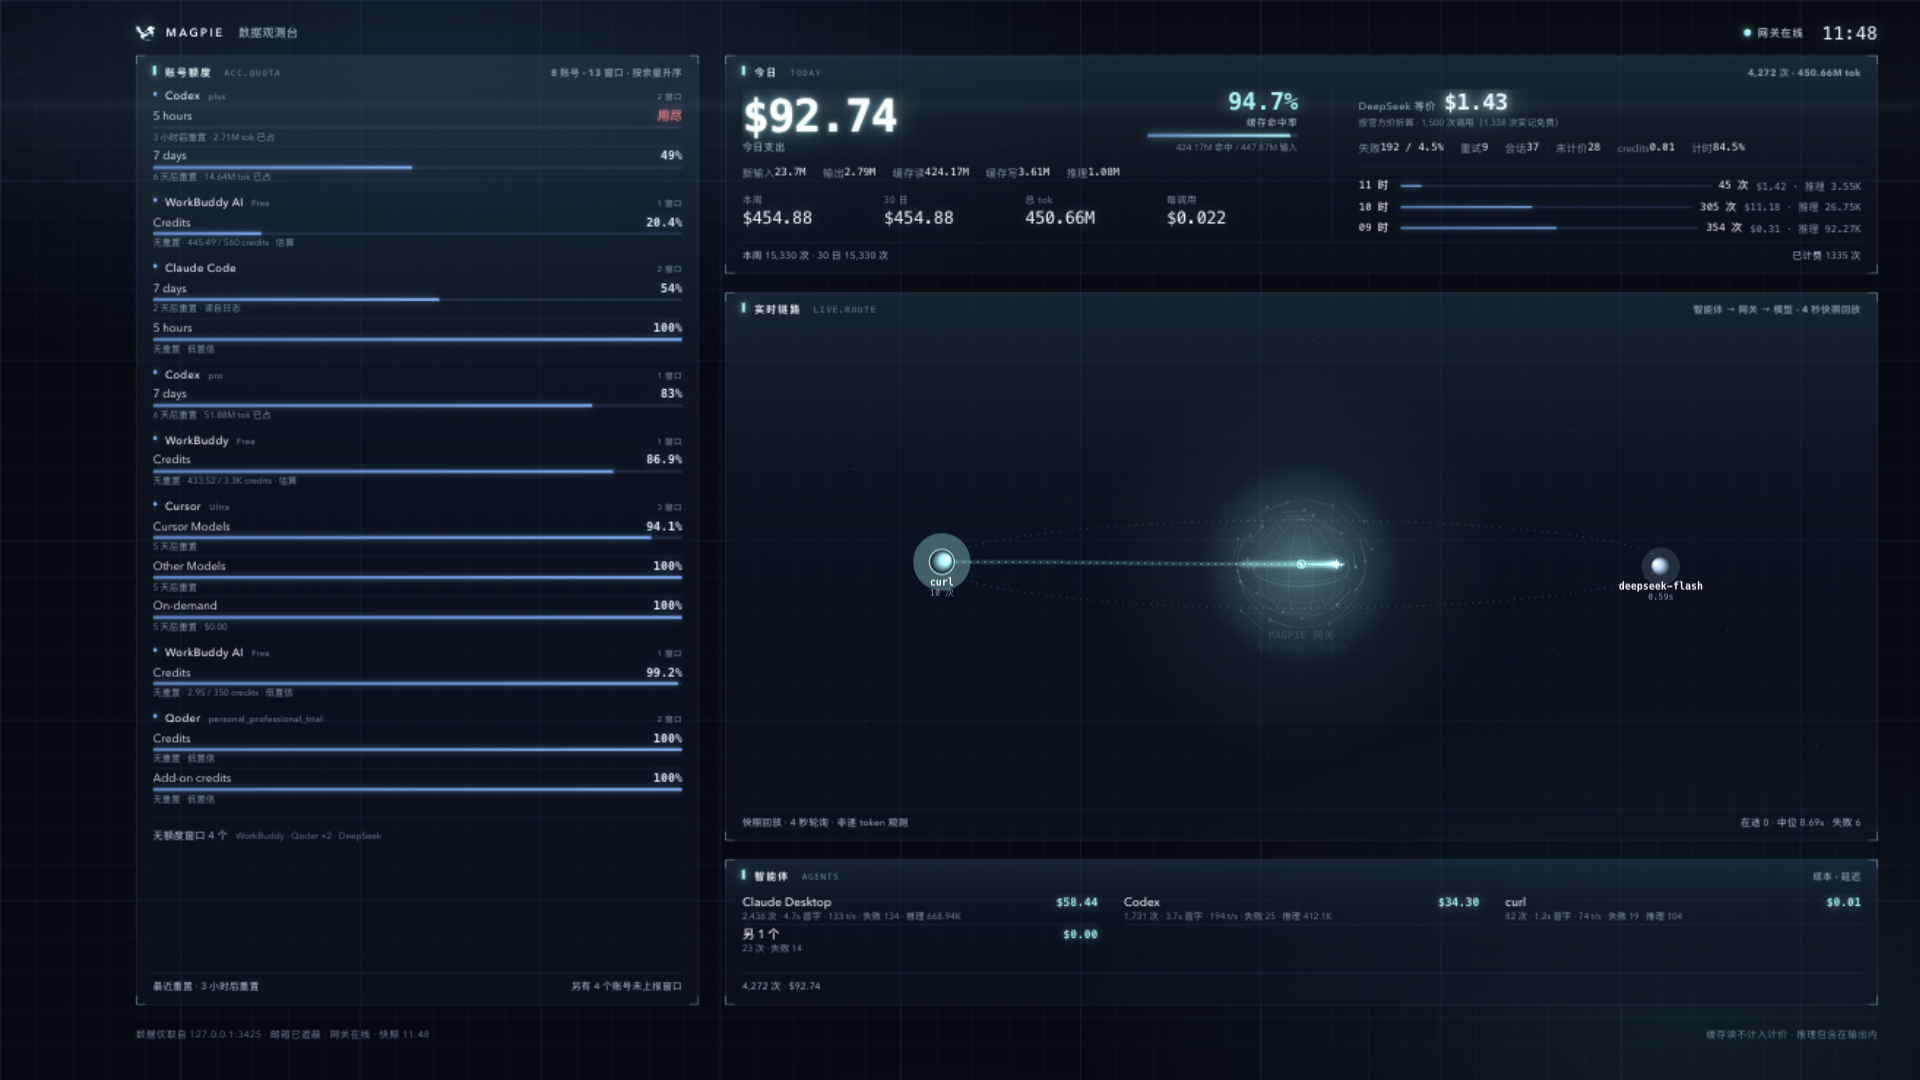
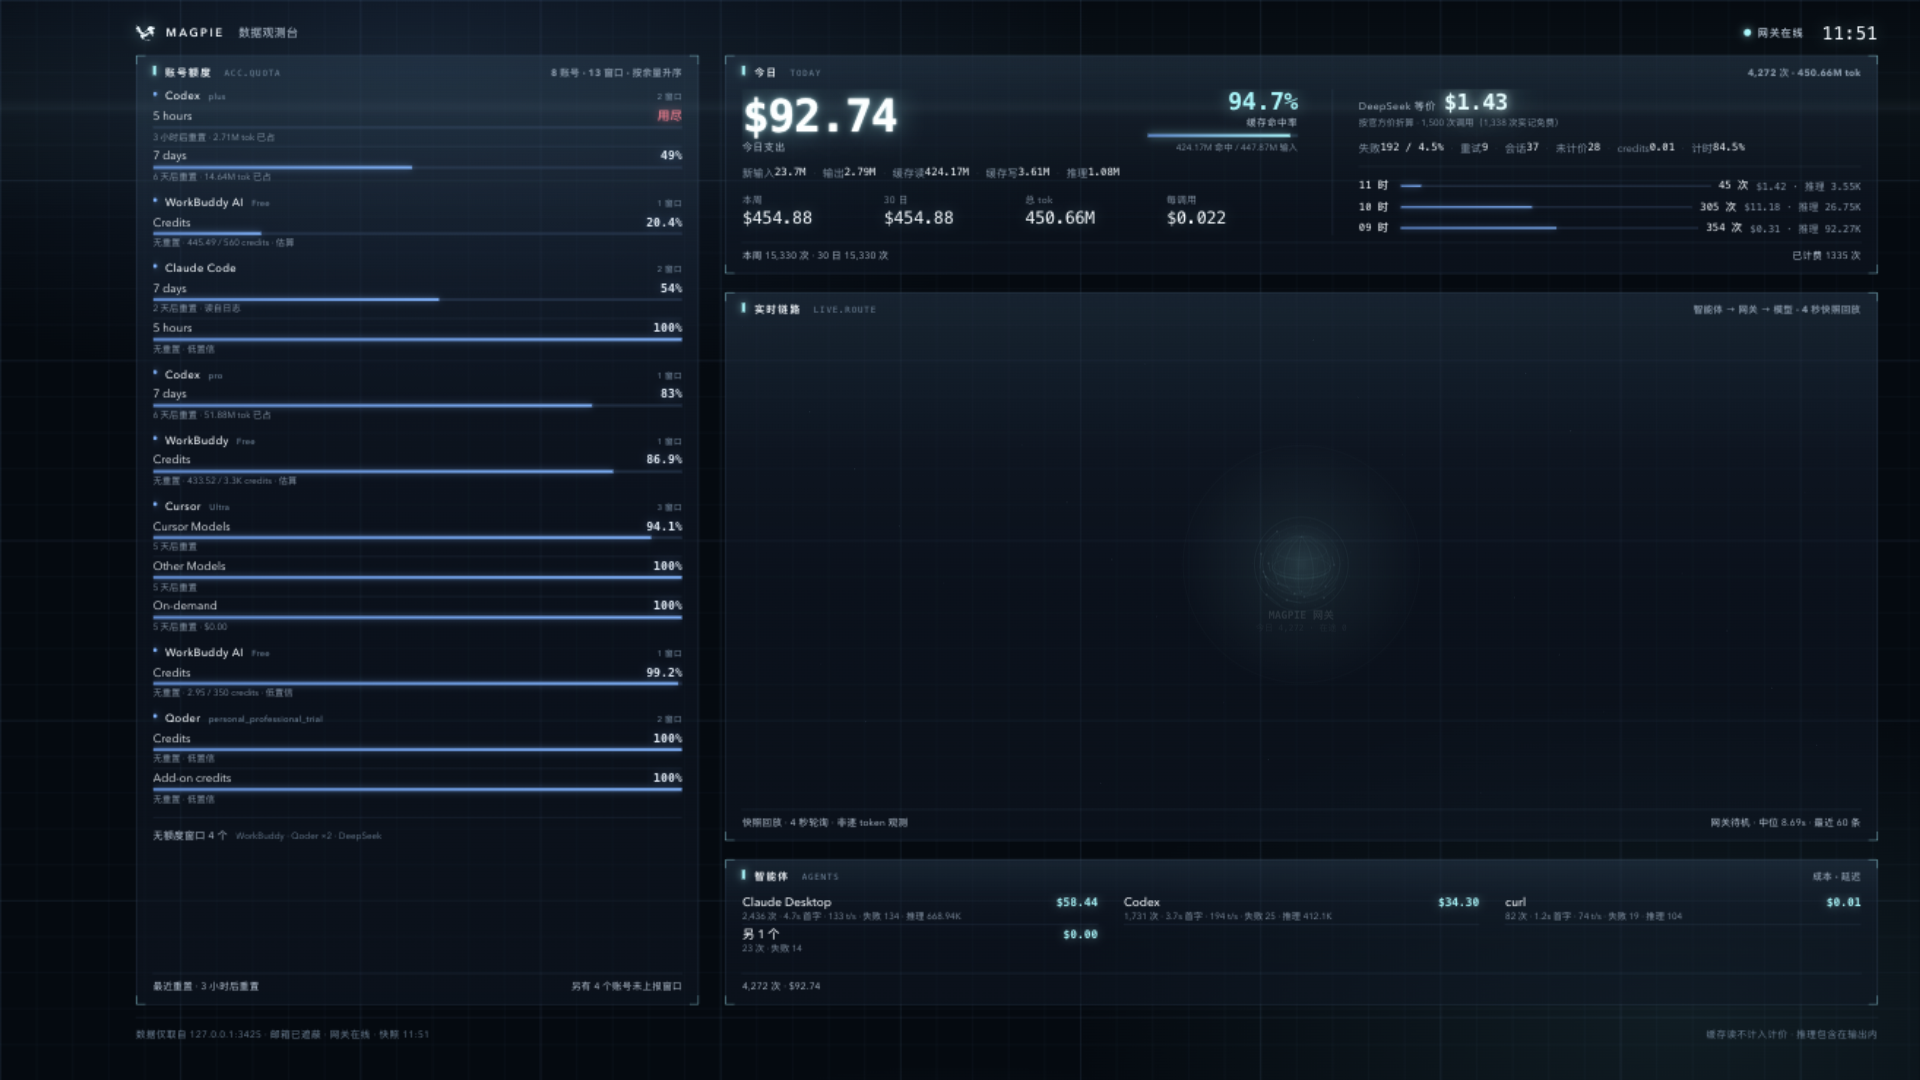
恒星缩小：核心半径 46→30，辉光与铭牌间距同步收紧

diff --git a/design/dashboard.js b/design/dashboard.js
@@ -590,7 +590,7 @@
     routeCoreLastNow = now;
     routeCorePhase += dt * (reduce ? 0.25 : 0.55 + 2.4 * energy);
     const breath = reduce ? 0 : Math.sin(now / 900);
-    const R = 46 * (1 + 0.07 * breath * (1 - energy) + 0.12 * routeCoreKick);
+    const R = 30 * (1 + 0.07 * breath * (1 - energy) + 0.12 * routeCoreKick);
     // 经线随相位累积器旋转：能量变化时加速而不跳变。
     const yaw = reduce ? 0.6 : routeCorePhase * 1.6;
     const tilt = -0.38;
@@ -719,7 +719,7 @@
     }
     // 中心发光核：随能量与弹跳变亮。
     {
-      const nucR = 9 + 3 * energy + 5 * routeCoreKick;
+      const nucR = 6.5 + 2.2 * energy + 4 * routeCoreKick;
       const nuc = ctx.createRadialGradient(cx, cy, 0, cx, cy, nucR);
       nuc.addColorStop(0, 'rgba(234, 252, 255, ' + (0.5 + 0.35 * energy + 0.3 * routeCoreKick).toFixed(3) + ')');
       nuc.addColorStop(0.55, 'rgba(111, 242, 255, ' + (0.22 + 0.2 * energy).toFixed(3) + ')');
@@ -729,7 +729,7 @@
     }
     // 过境光刺：包裹穿过网关时从球面放射的短芒。
     if (routeCoreKick > 0.04) {
-      const len = 8 + 20 * routeCoreKick;
+      const len = 6 + 14 * routeCoreKick;
       for (let i = 0; i < 8; i += 1) {
         const a = (i / 8) * Math.PI * 2 + 0.4;
         const [x0, y0] = proj(R * Math.cos(a), R * Math.sin(a) * 0.4, R * Math.sin(a) * 0.9);
@@ -836,7 +836,7 @@
     const gwGlow = stageIdle
       ? 0.08 + routeCoreAlpha * (reduce ? 0.02 : 0.02 + 0.06 * (0.5 + 0.5 * Math.sin(now / 700)))
       : 0.08 + routeCoreAlpha * (0.04 + 0.07 * energy);
-    const gwGlowR = Math.min(W, H) * 0.42;
+    const gwGlowR = Math.min(W, H) * 0.26;
     const underglow = ctx.createRadialGradient(W / 2, H / 2, 0, W / 2, H / 2, gwGlowR);
     underglow.addColorStop(0, 'rgba(111, 242, 255, ' + gwGlow.toFixed(3) + ')');
     underglow.addColorStop(1, 'rgba(111, 242, 255, 0)');
@@ -909,7 +909,7 @@
     if (stageIdle && !routeNodes.agents.size && !routeNodes.models.size && routeCoreAlpha > 0.02 && !reduce) {
       for (let i = 0; i < 2; i += 1) {
         const p = ((now / 2600) + i * 0.5) % 1;
-        const r = starR + 8 + p * Math.min(H, W) * 0.34;
+        const r = starR + 8 + p * Math.min(H, W) * 0.3;
         ctx.save();
         ctx.globalAlpha = routeCoreAlpha * (1 - p) * 0.34;
         ctx.strokeStyle = ROUTE_C.request;
@@ -1146,10 +1146,10 @@
     ctx.textAlign = 'center';
     ctx.fillStyle = '#f2f9ff';
     ctx.font = '600 10.5px ui-monospace, "SF Mono", Menlo, monospace';
-    ctx.fillText('MAGPIE 网关', cx, cy + 74);
+    ctx.fillText('MAGPIE 网关', cx, cy + 54);
     ctx.fillStyle = '#7e95ad';
     ctx.font = '400 8.5px ui-monospace, "SF Mono", Menlo, monospace';
-    ctx.fillText('今日 ' + integer(todayCalls) + ' · 在途 ' + running, cx, cy + 86);
+    ctx.fillText('今日 ' + integer(todayCalls) + ' · 在途 ' + running, cx, cy + 66);
     ctx.restore();
   }
 
